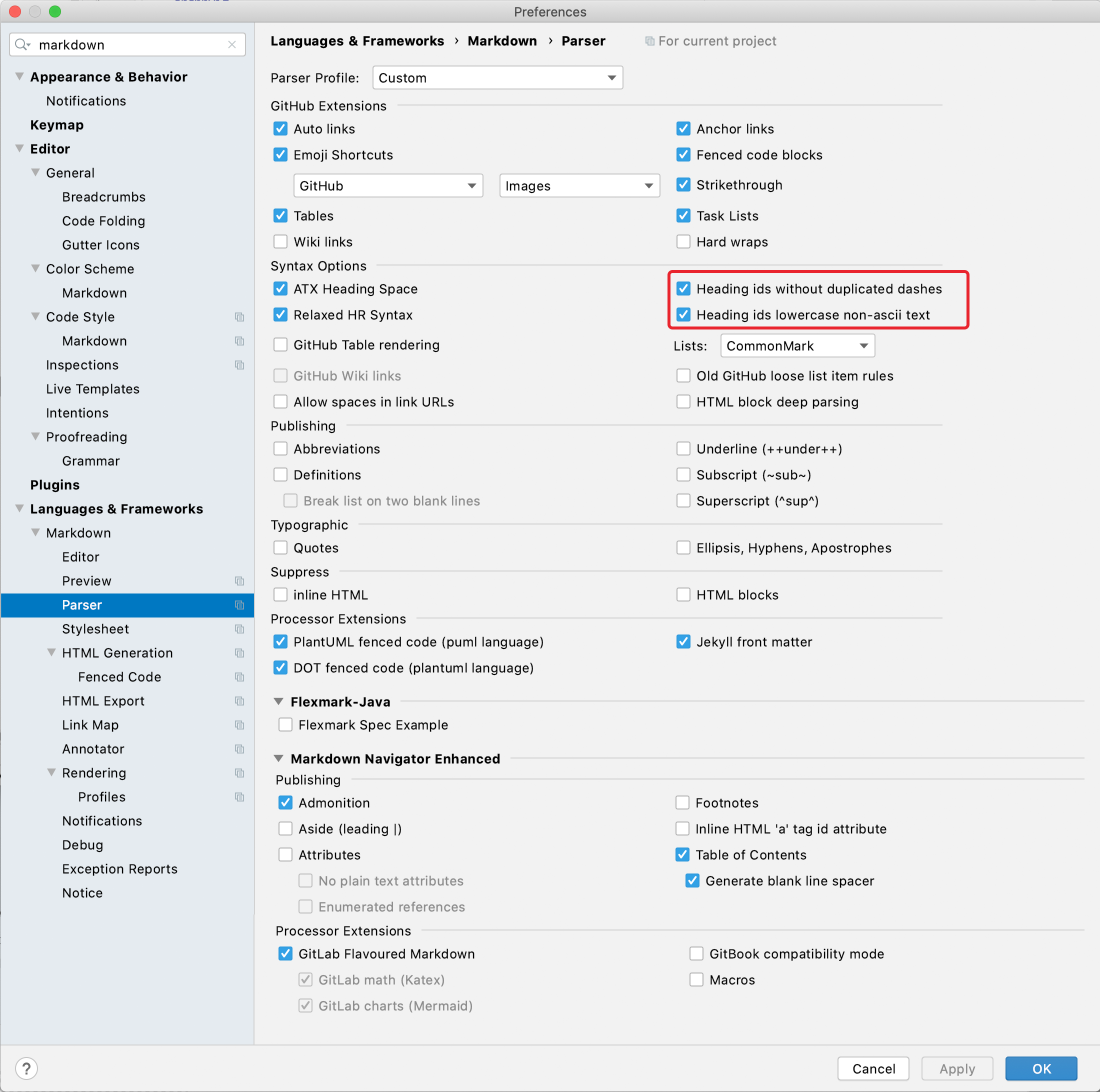
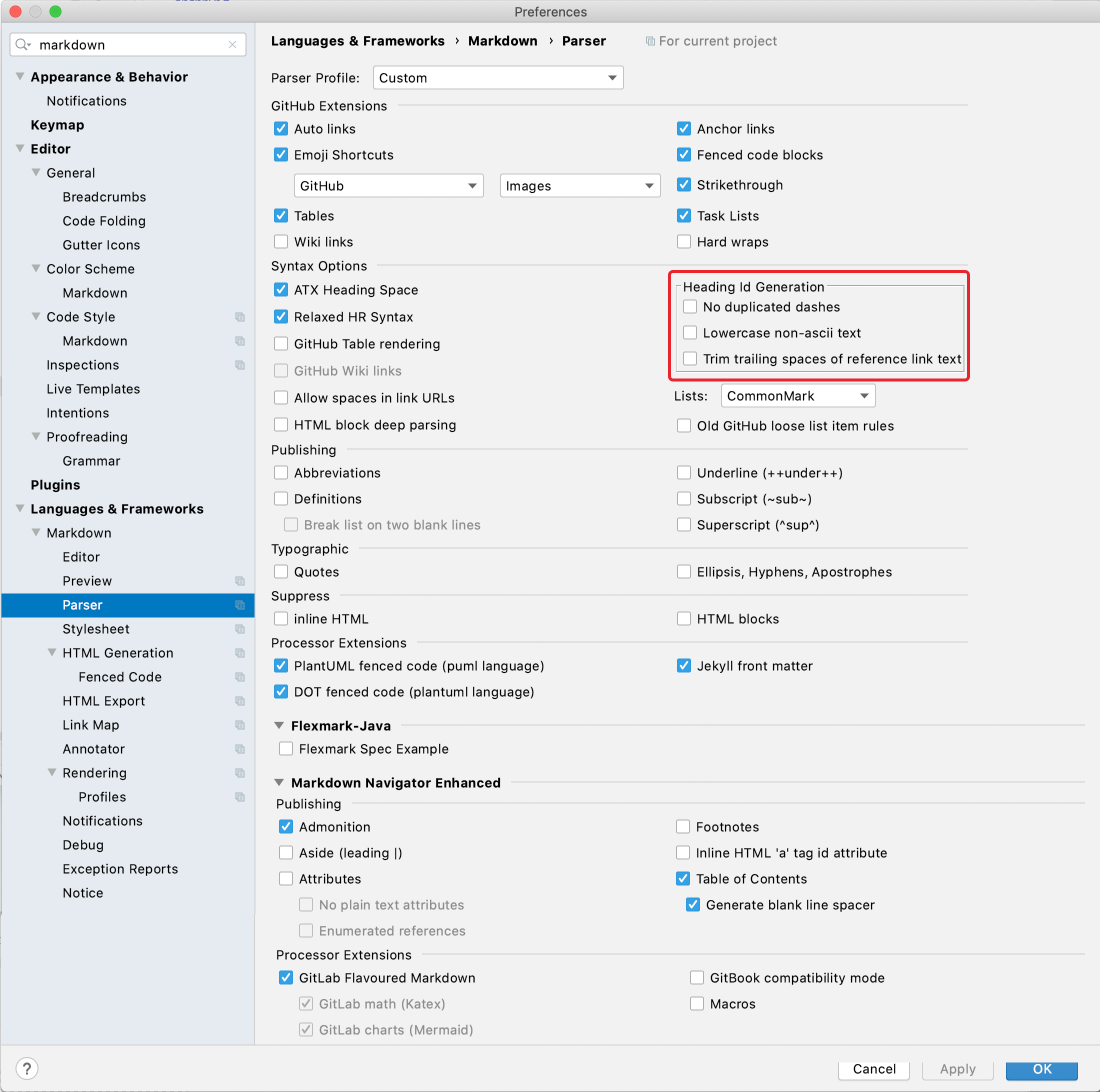
update wiki and screenshots

diff --git a/VERSION.md b/VERSION.md
@@ -2,8 +2,9 @@
 
 [TOC]: # ""
 
-- [3.0.xxx.79 - 2020.1 EAP Bug Fix & Enhancement Release](#30xxx79---20201-eap-bug-fix--enhancement-release)
-- [3.0.xxx.75 - 2020.1 EAP Bug Fix Release](#30xxx75---20201-eap-bug-fix-release)
+- [3.0.201.81 - 2020.1 Bug Fix EAP Release](#3020181---20201-bug-fix-eap-release)
+- [3.0.201.79 - 2020.1 EAP Bug Fix & Enhancement EAP Release](#3020179---20201-eap-bug-fix--enhancement-eap-release)
+- [3.0.201.75 - 2020.1 EAP Bug Fix EAP Release](#3020175---20201-eap-bug-fix-eap-release)
 - [3.0.xxx.72 - 2019.x Bug Fix Release](#30xxx72---2019x-bug-fix-release)
 - [3.0.192.66 - 2019.2 Compatibility Release](#3019266---20192-compatibility-release)
 - [3.0.197.64 - 2019.3 Compatibility Release](#3019764---20193-compatibility-release)
@@ -20,7 +21,16 @@
 
 &nbsp;</details>
 
-### 3.0.xxx.79 - 2020.1 EAP Bug Fix & Enhancement Release
+### 3.0.201.81 - 2020.1 Bug Fix EAP Release
+
+* Fix: multiline URL image links should not wrap
+* Fix: for image-to-fenced code and image-to-inline math conversion, accept `http://` url prefix
+  as equivalent to `https://`
+* Fix: GitHub header id generation compatibility:
+  * Add Emoji shortcuts 
+  * Fix ref link images should not trim trailing spaces in reference or
+
+### 3.0.201.79 - 2020.1 EAP Bug Fix & Enhancement EAP Release
 
 * Fix: wiki links should not be wrapped during formatting.
 * Fix: Link map default map content for Link Address Element
@@ -36,7 +46,7 @@
 * Fix: change Math rendering to use fenced code image rendering EP
 * Fix: change HTML Settings to use new fenced code image rendering EP
 
-### 3.0.xxx.75 - 2020.1 EAP Bug Fix Release
+### 3.0.201.75 - 2020.1 EAP Bug Fix EAP Release
 
 * Add: `GrammarCheckingStrategy` for `Grazie` support in Markdown files.
 * Add: `Ignore casing of simple list item text` in editor settings to ignore capitalization of
